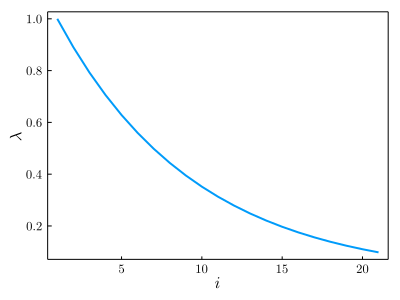
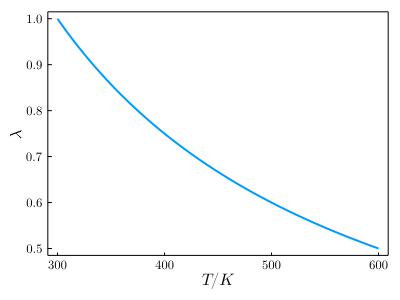
up

diff --git a/Simulations/README.md b/Simulations/README.md
@@ -228,7 +228,7 @@ Cada réplica terá seu próprio parâmetro de escalonamento do potencial. Geral
 
 <img width=300px src=https://user-images.githubusercontent.com/31046348/118821585-c500de00-b88d-11eb-8b80-e907d92a30e1.png>
 
-onde `T0` e `Tm` são as "temperaturas" de referência e temperatura máxima usadas. Neste caso, como estamos fazendo réplicas por modificação do potencial, não se trata de variar exatamente a temperatura, mas o conceito é similar. Podemos aplicar esta fórmula e obter o conjunto de parâmetros que vamos usar, com:  
+onde `T0` e `Tm` são as "temperaturas" de referência e temperatura máxima usadas. Usaremos `T0=300` e `Tm=425`. Neste caso, como estamos fazendo réplicas por modificação do potencial, não se trata de variar exatamente a temperatura, mas o conceito é similar. Podemos aplicar esta fórmula e obter o conjunto de parâmetros que vamos usar, com:  
 ```julia
 %julia -e "println.([exp((-i/3)*log(425/300)) for i in 0:3])"
 1.0
@@ -237,9 +237,11 @@ onde `T0` e `Tm` são as "temperaturas" de referência e temperatura máxima usa
 0.7058823529411764
 ```
 
-Neste caso ilustrativo são só 4 réplicas. Mas se tivéssemos mais réplicas, 20 por exemplo, [obteríamos](https://github.com/m3g/XEMMSB2021/blob/main/Simulations/JuliaScripts/lambda.jl) o seguinte perfil de parâmetros de escalonamento: 
+Neste caso ilustrativo são só 4 réplicas. Mas se tivéssemos mais e uma faixa mais ampla de "temperaturas" e mais réplicas, [obteríamos](https://github.com/m3g/XEMMSB2021/blob/main/Simulations/JuliaScripts/lambda.jl) o seguinte perfil de parâmetros de escalonamento: 
 
 <img src=https://github.com/m3g/XEMMSB2021/raw/main/Simulations/JuliaScripts/lambda.png>
+
+Nele vemos que os parâmetros variam mais nas temperaturas menores e menos nas temperaturas maiores, onde as flutuações estruturais são maiores. Esta formula procura garantir uma taxa de troca de réplicas uniforme ao longo de toda a faixa de parâmetros estudada.
 
 Feito isso, devemos escalonar as topologias que serão usadas para as diferentes réplicas.
 
